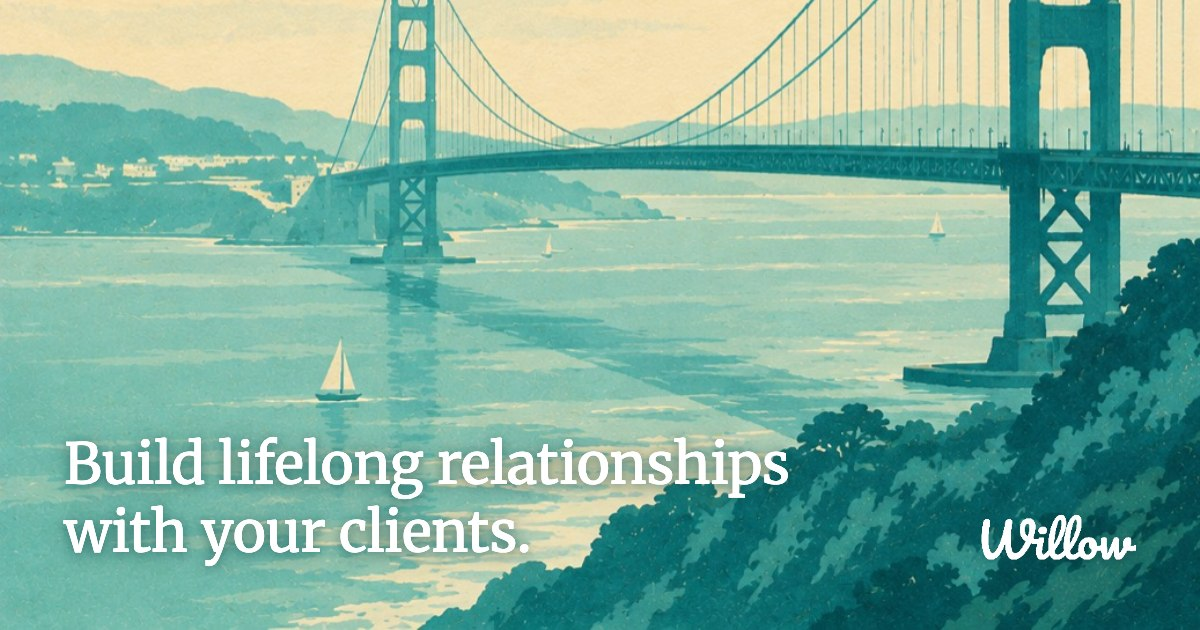
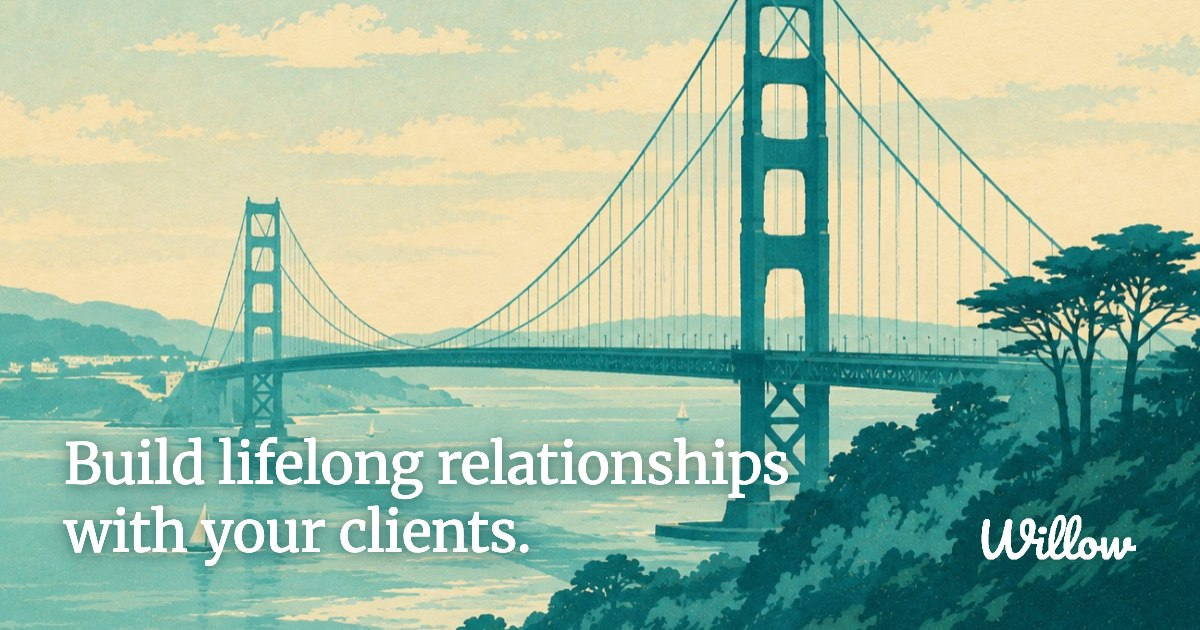
Share card: subtle 1.08x zoom, headline clears the tower

diff --git a/public/og-card.html b/public/og-card.html
@@ -7,7 +7,7 @@
   * { margin: 0; padding: 0; }
   body { width: 1200px; height: 630px; overflow: hidden; }
   .card { position: relative; width: 1200px; height: 630px; }
-  .card img.bg { position: absolute; inset: 0; width: 100%; height: 100%; object-fit: cover; object-position: left bottom; transform: scale(1.35); transform-origin: left bottom; }
+  .card img.bg { position: absolute; inset: 0; width: 100%; height: 100%; object-fit: cover; object-position: 70% 55%; transform: scale(1.08); transform-origin: 70% 55%; }
   .logo { position: absolute; bottom: 44px; right: 64px; height: 92px; filter: brightness(0) invert(1) drop-shadow(0 2px 8px rgba(6,69,68,0.5)); }
   .line { position: absolute; left: 64px; bottom: 64px; right: 64px; color: #fff; font-family: 'Merriweather', Georgia, serif; font-weight: 400; font-size: 56px; line-height: 1.22; letter-spacing: 0.005em; text-shadow: 0 2px 10px rgba(6,69,68,0.55), 0 4px 30px rgba(6,69,68,0.45); }
 </style>
